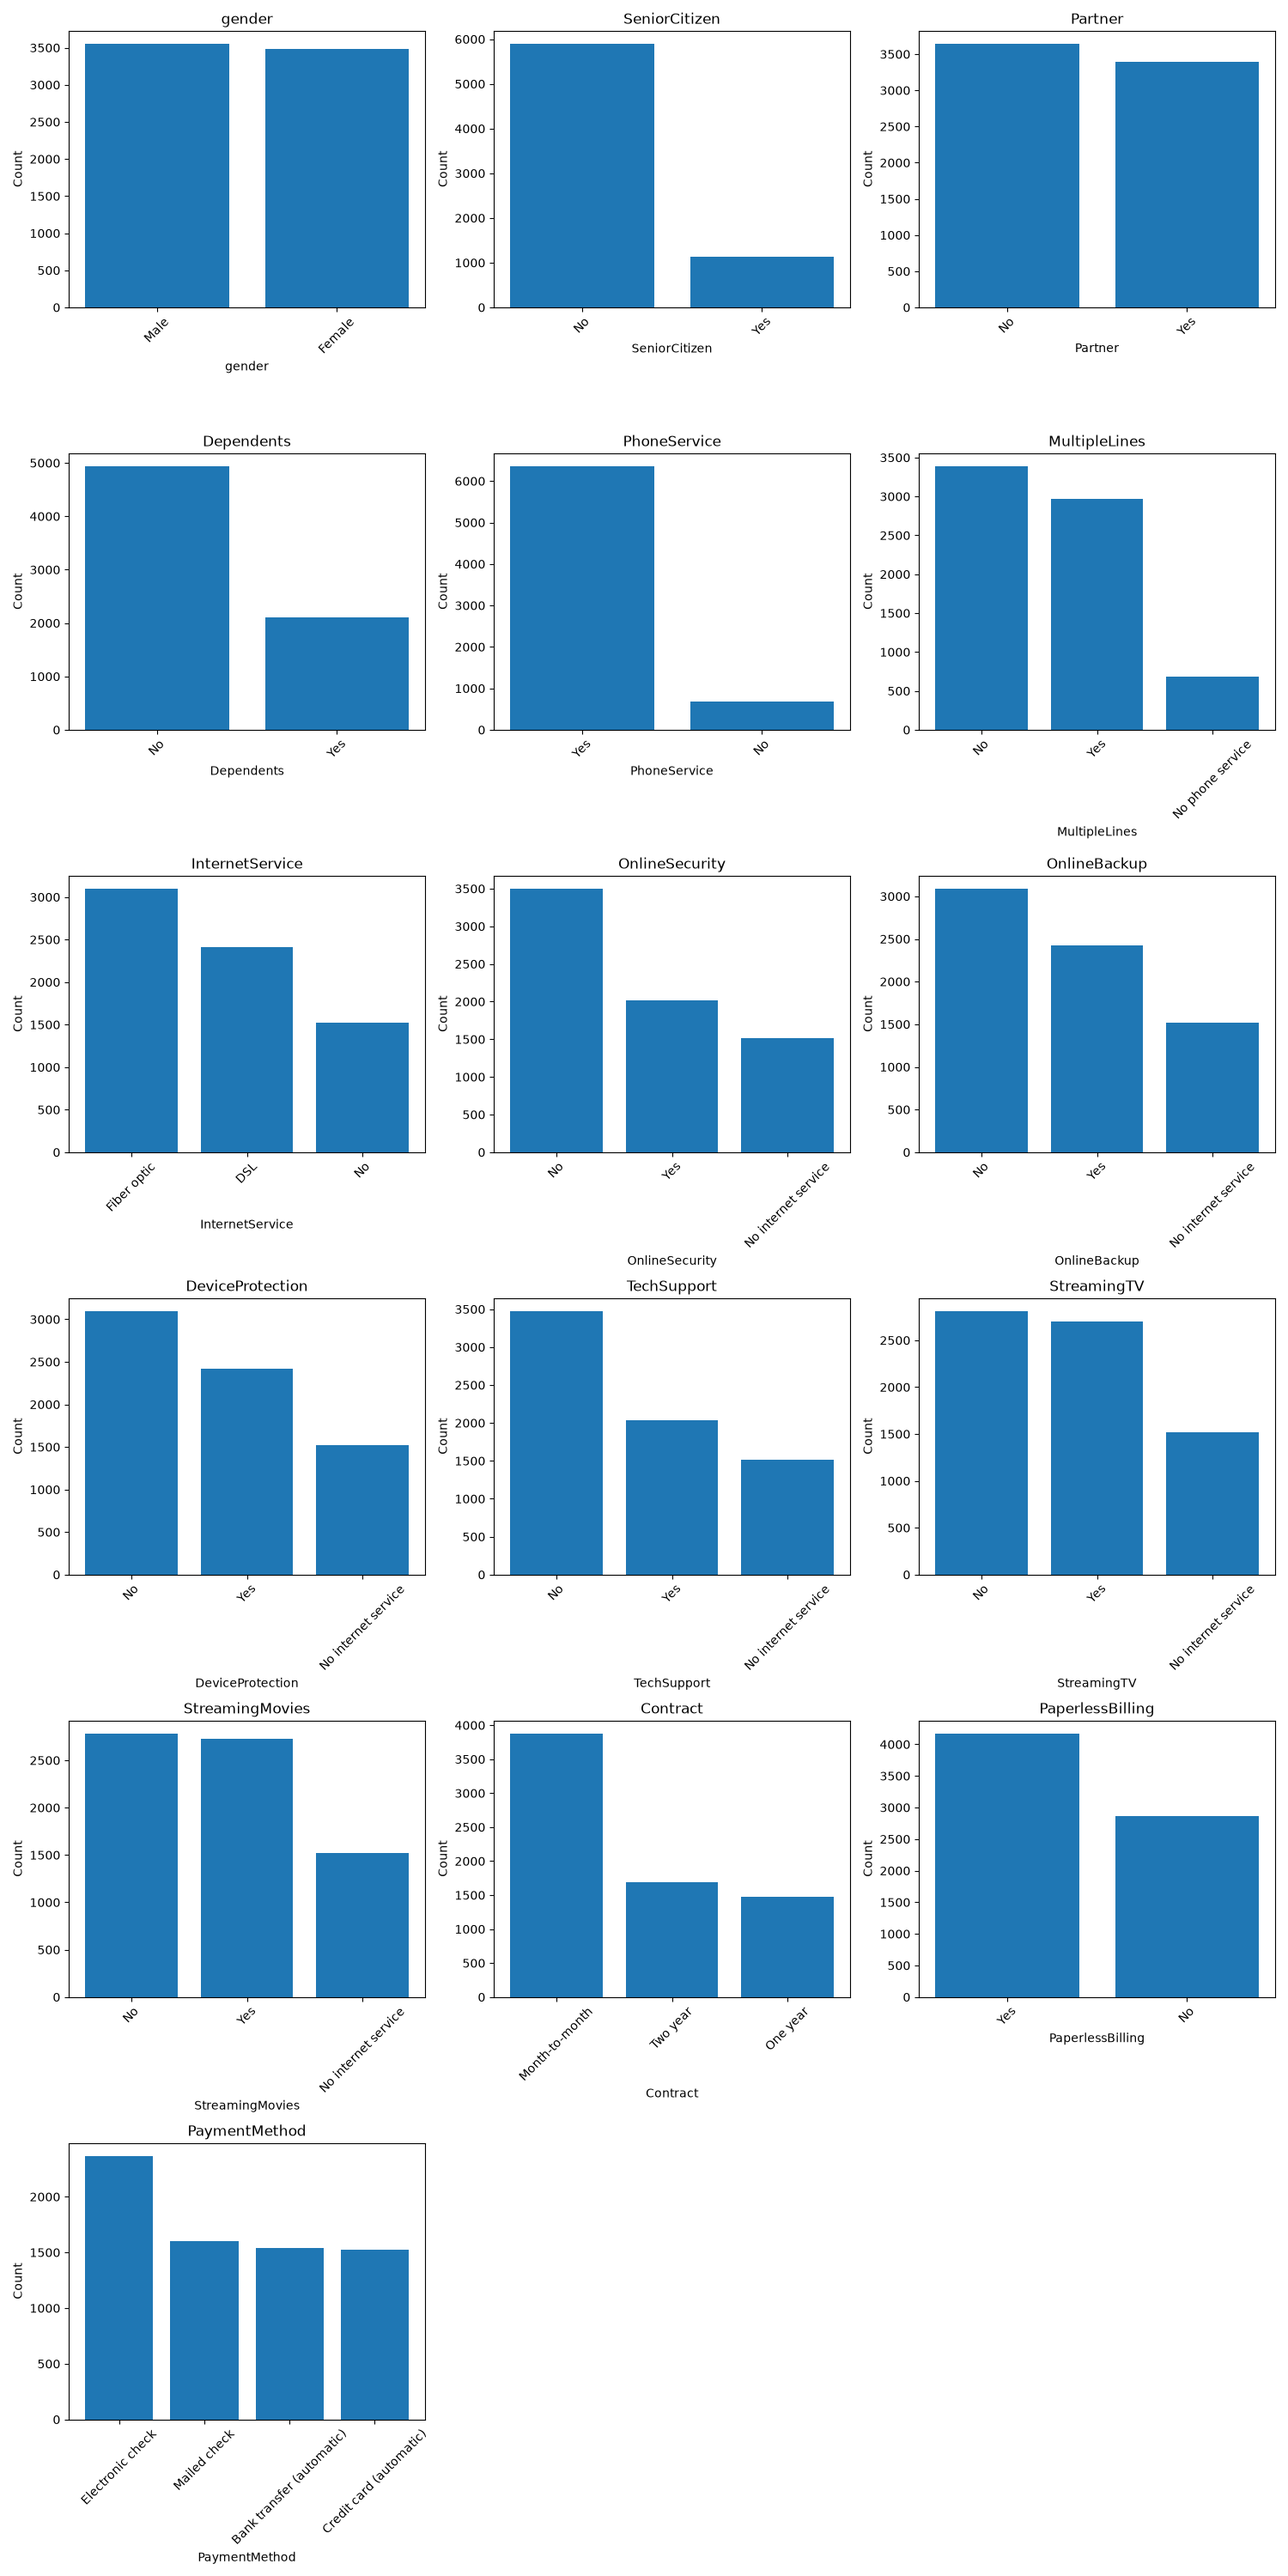
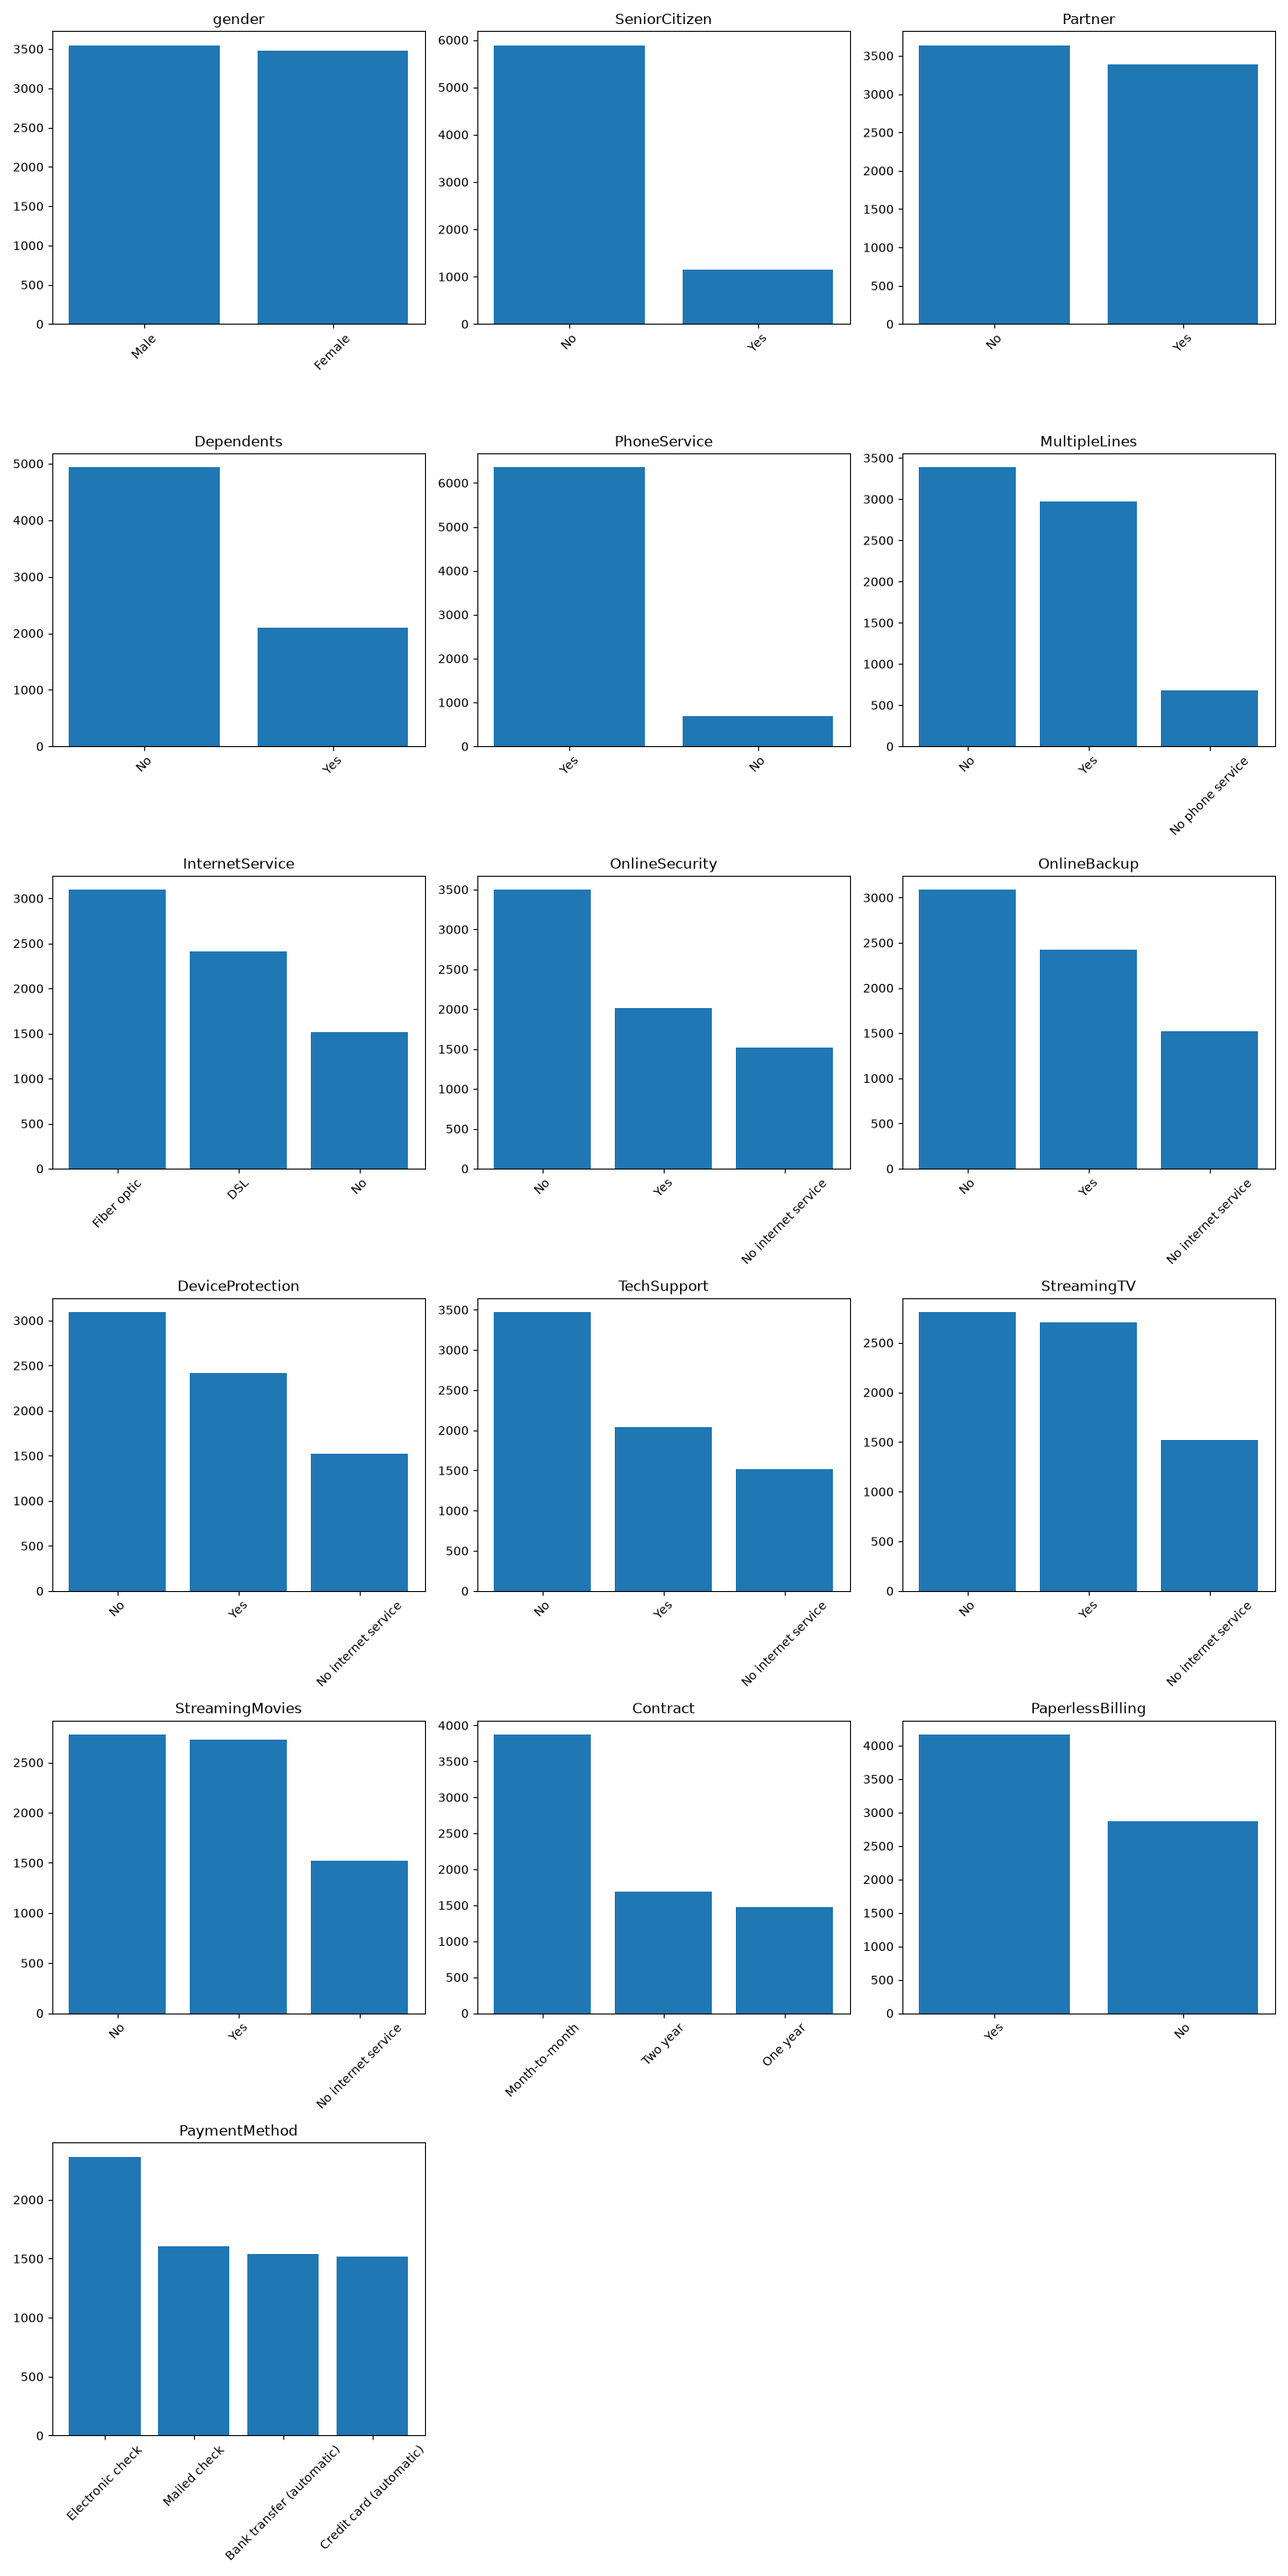
data_analysis/data_preparation_visualization: bug fixes for tasks 7, 8, 9 and 10

diff --git a/data_analysis/data_preparation_visualization/9-plot_correlation_heatmap.py b/data_analysis/data_preparation_visualization/9-plot_correlation_heatmap.py
@@ -19,7 +19,8 @@ def plot_correlation_heatmap(df):
     """
     plt.figure(figsize=(6, 5))
 
-    # Keep numeric columns, then drop binary ones since correlation is meant for continuous features
+    # Keep numeric columns,
+    # then drop binary ones since correlation is meant for continuous features
     numeric = df.select_dtypes(include='number')
     continuous = [col for col in numeric.columns
                   if numeric[col].nunique() > 2]

diff --git a/data_analysis/data_preparation_visualization/10-plot_categorical_vs_churn.py b/data_analysis/data_preparation_visualization/10-plot_categorical_vs_churn.py
@@ -17,7 +17,7 @@ def plot_categorical_vs_churn(df, col):
     churn_rate = df.groupby(col)['Churn'].apply(lambda x: (x == 'Yes').mean())
 
     plt.figure(figsize=(12, 8))
-    churn_rate.plot(kind='bar')
+    plt.bar(churn_rate.index.astype(str), churn_rate.values)
     plt.title("Churn Rate by {}".format(col))
     plt.ylabel("Churn Rate")
     plt.xticks(rotation=45)

diff --git a/data_analysis/data_preparation_visualization/8-plot_continuous_distributions.py b/data_analysis/data_preparation_visualization/8-plot_continuous_distributions.py
@@ -34,7 +34,7 @@ def plot_continuous_distributions(df, columns_to_plot=None):
     if n_cols == 0:
         return None
 
-    fig, axes = plt.subplots(n_cols, 2, figsize=(10, 3*n_cols))
+    fig, axes = plt.subplots(n_cols, 2, figsize=(15, 2.5 * n_cols))
 
     # With a single row subplots returns a 1D array; make it 2D so the
     # axes[i, j] indexing below works

diff --git a/data_analysis/data_preparation_visualization/7-plot_categorical_distributions.py b/data_analysis/data_preparation_visualization/7-plot_categorical_distributions.py
@@ -46,8 +46,6 @@ def plot_categorical_distributions(df, columns_to_plot=None):
 
         ax.bar(counts.index, counts.values)
         ax.set_title(column)
-        ax.set_xlabel(column)
-        ax.set_ylabel('Count')
         # Rotate labels so long category names do not overlap
         ax.tick_params(axis='x', rotation=45)
 
